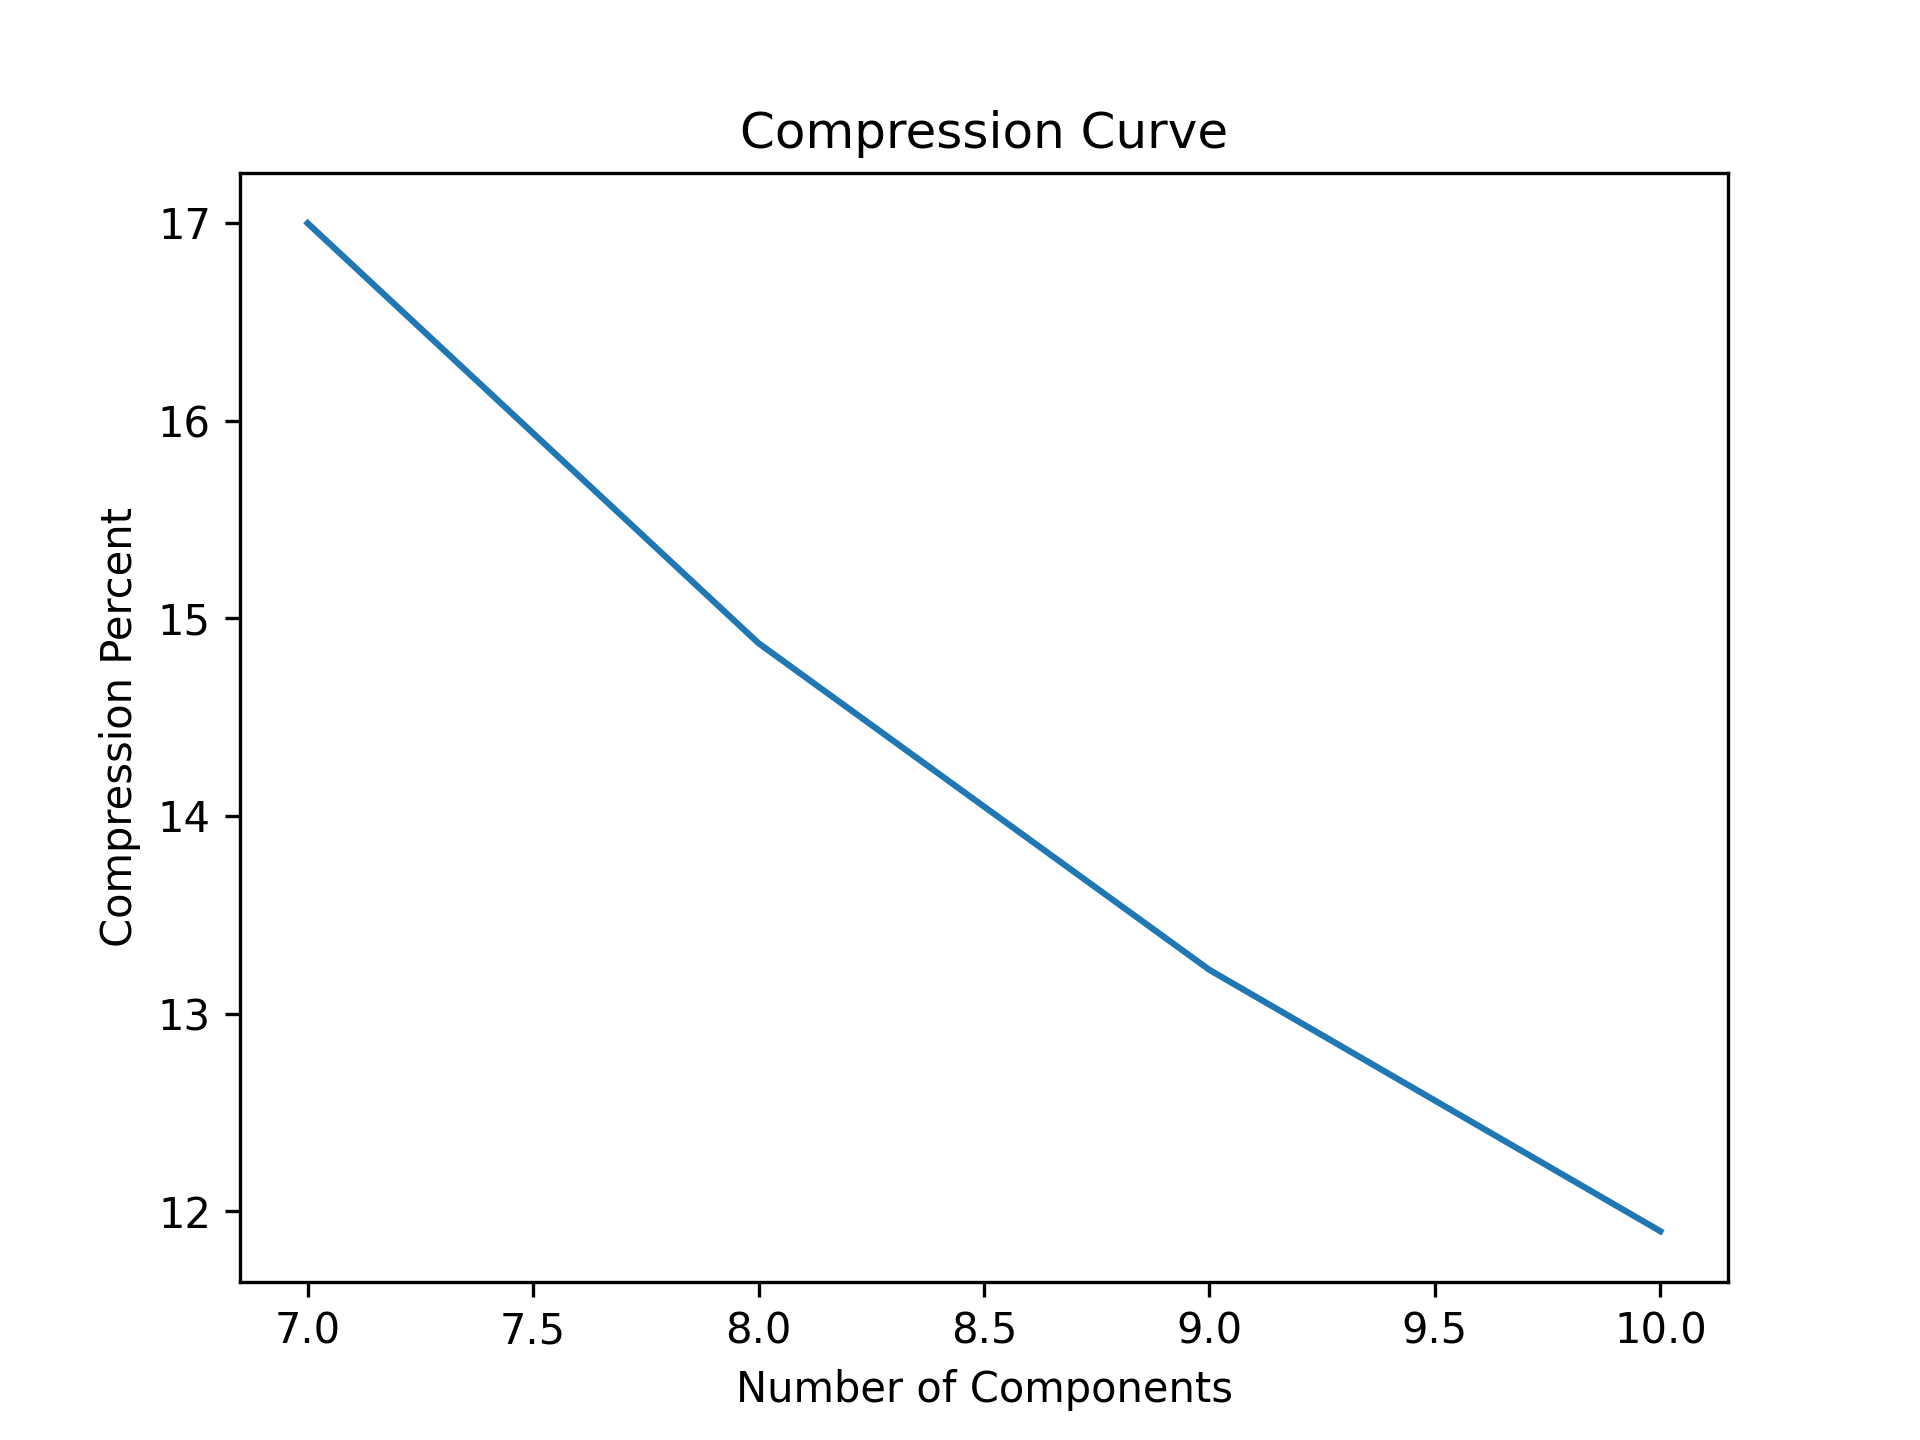
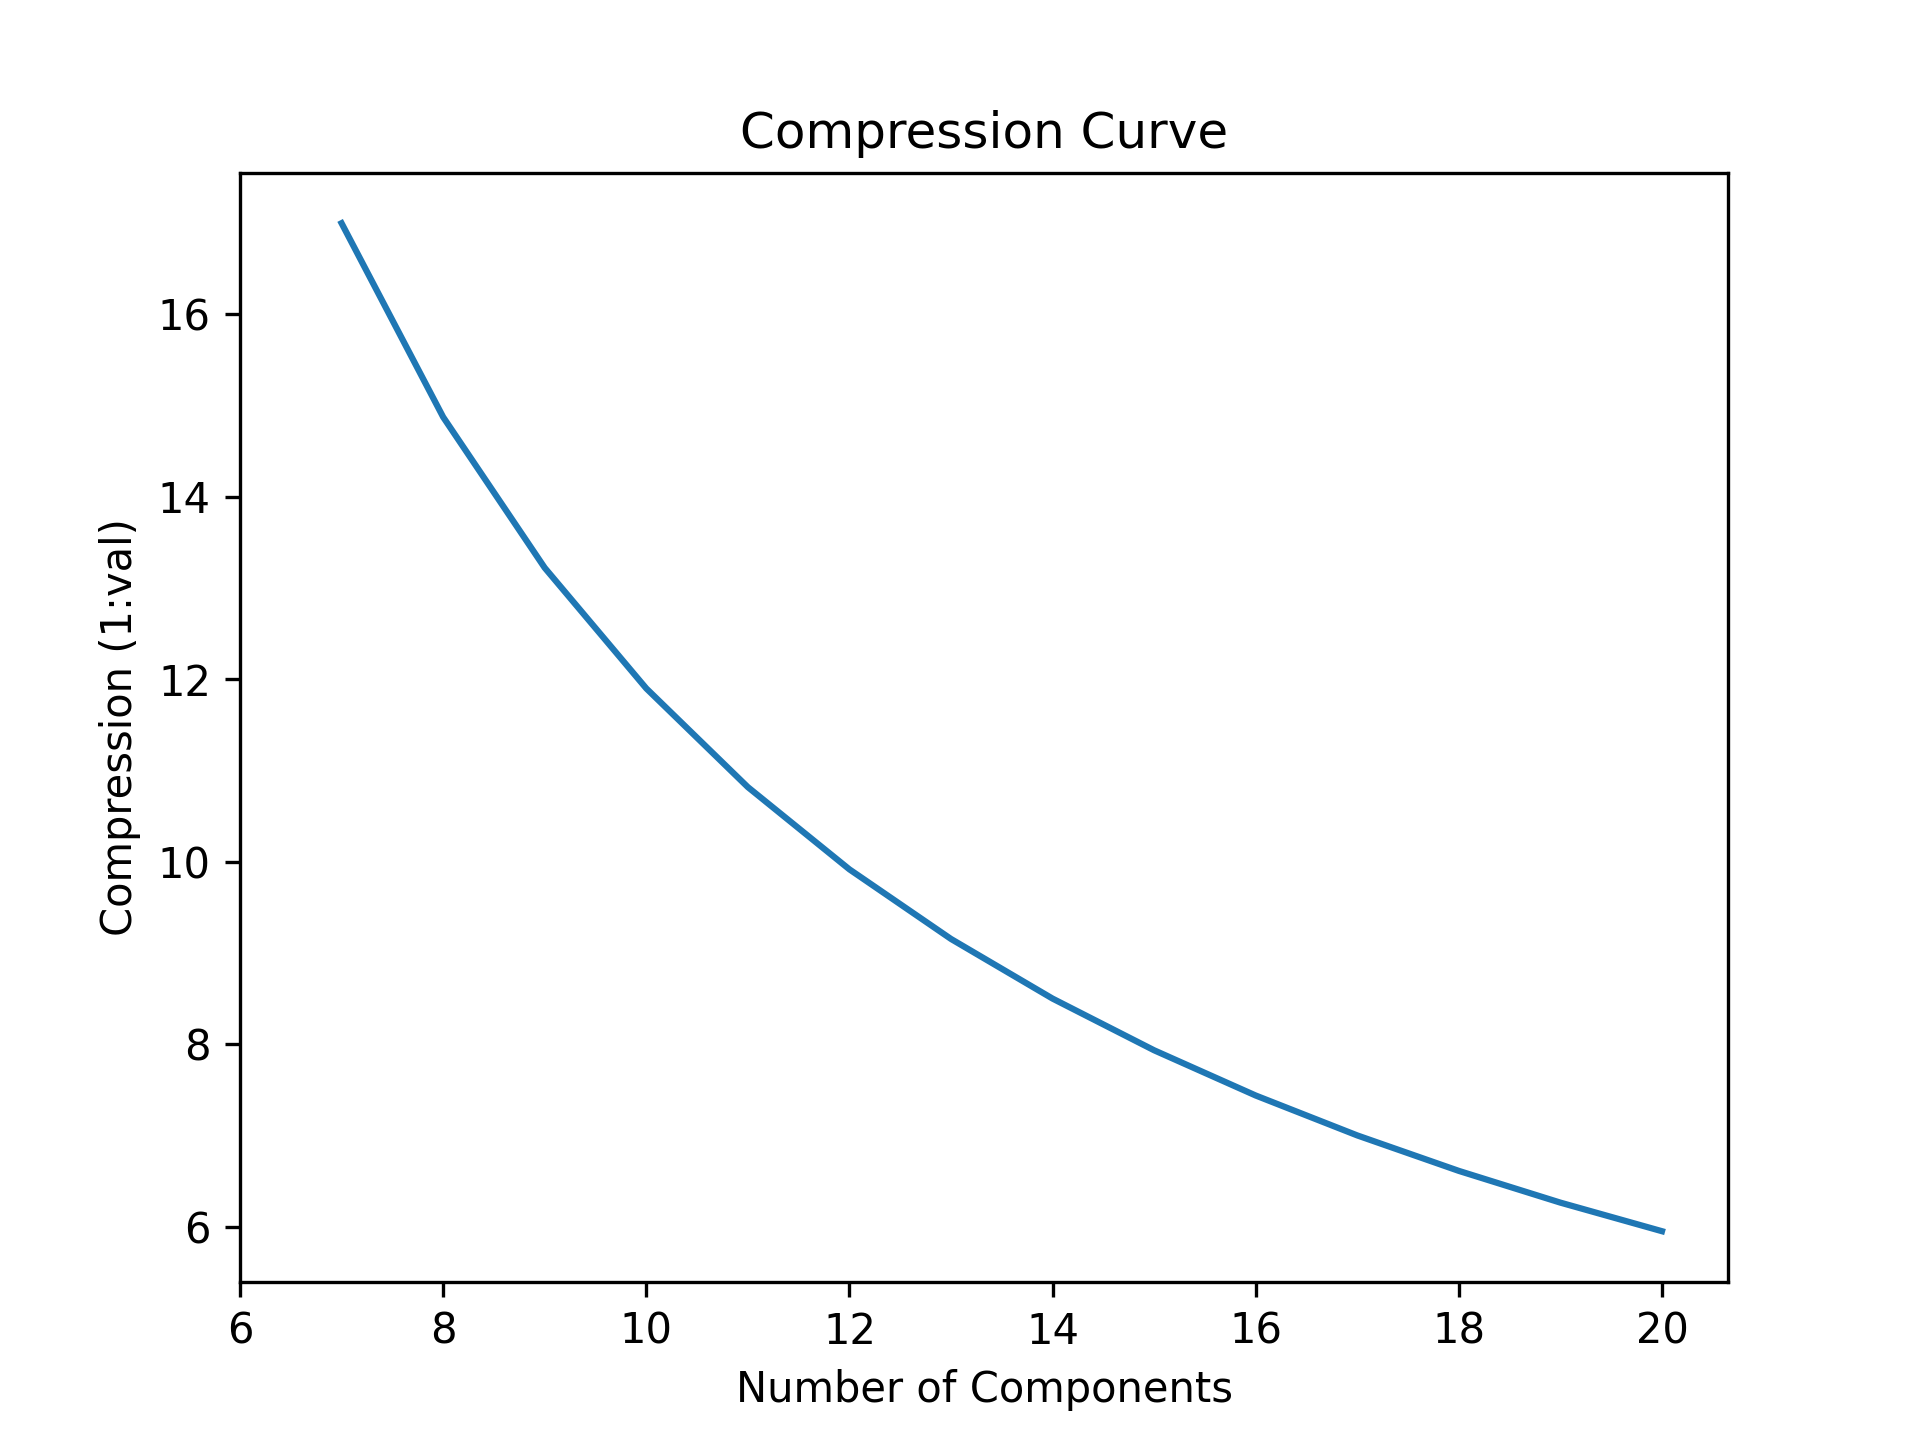
Updated plots

diff --git a/pca/run_pca.py b/pca/run_pca.py
@@ -5,7 +5,7 @@ from sklearn.decomposition import PCA
 import matplotlib.pyplot as plt
 from matplotlib import gridspec
 
-infile = h5.File("C:\\Users\\keena\\Documents\\University of Arizona\\Jobs\\TIMESTEP NOIRLAB\\pca\\clumpy_models_201410_tvavg.hdf5", 'r')
+infile = h5.File("C:\\Users\\keena\\Documents\\University of Arizona\\Jobs\\TIMESTEP NOIRLAB\\wise-agn\\pca\\clumpy_models_201410_tvavg.hdf5", 'r')
 dset = infile
 
 #Setting up datasets
@@ -15,7 +15,7 @@ wave_norm = dset['wave'][:]
 wave = np.log10(dset['wave'][:])
 
 
-n_comp = range(1,21)
+n_comp = range(7,21)
 
 #output arrays
 err = []
@@ -47,6 +47,10 @@ for amt in n_comp:
 
 #Plotting
 plt.plot(n_comp,max_arr)
+plt.title('Error Curve')
+plt.xlabel('Number of Components')
+plt.ylabel('Max Error across all Spectra')
+plt.xticks(range(6,22,2)) 
 plt.savefig('max.png',dpi=300)
 plt.clf()
 
@@ -54,7 +58,7 @@ plt.plot(n_comp, err)
 plt.title('Error Curve')
 plt.xlabel('Number of Components')
 plt.ylabel('Median Error across all Spectra')
-plt.xticks(range(2,22,2)) 
+plt.xticks(range(6,22,2)) 
 plt.savefig('error.png', dpi = 300)
 plt.clf()
 
@@ -62,7 +66,7 @@ plt.plot(n_comp, err_mean)
 plt.title('Error Curve')
 plt.xlabel('Number of Components')
 plt.ylabel('Mean Error across all Spectra')
-plt.xticks(range(2,22,2)) 
+plt.xticks(range(6,22,2)) 
 plt.savefig('error_mean.png', dpi = 300)
 plt.clf()
 
@@ -70,7 +74,7 @@ plt.plot(n_comp, compression)
 plt.title('Compression Curve')
 plt.xlabel('Number of Components')
 plt.ylabel('Compression (1:val)')
-plt.xticks(range(2,22,2)) 
+plt.xticks(range(6,22,2)) 
 plt.savefig('compression.png', dpi = 300)
 plt.clf()
 
